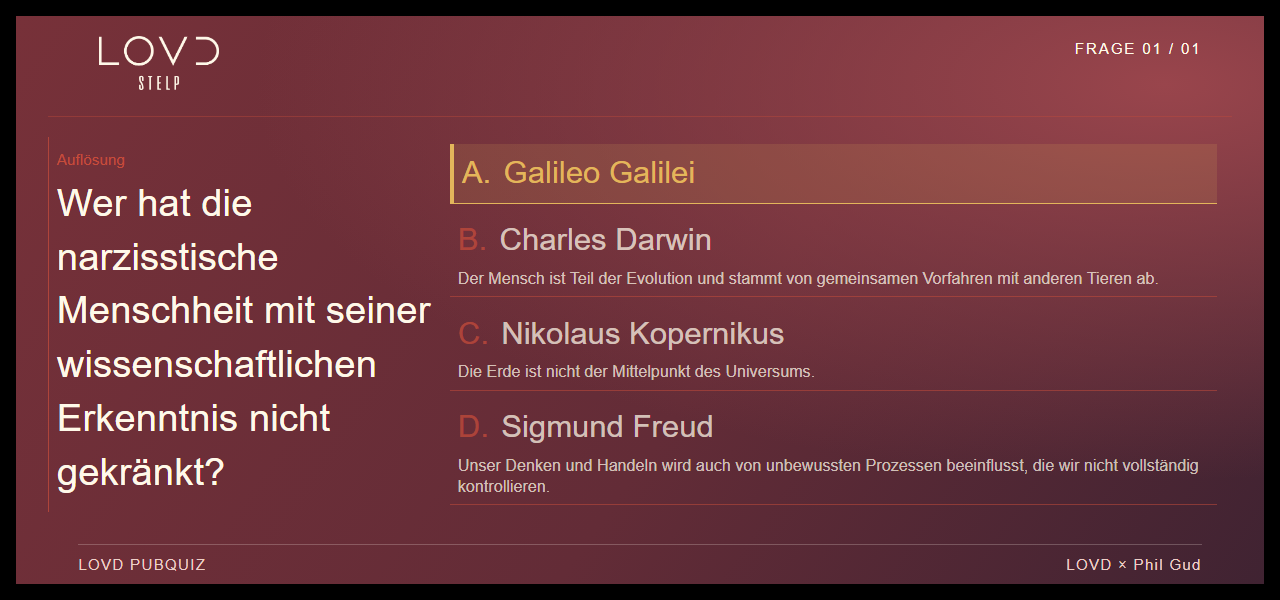
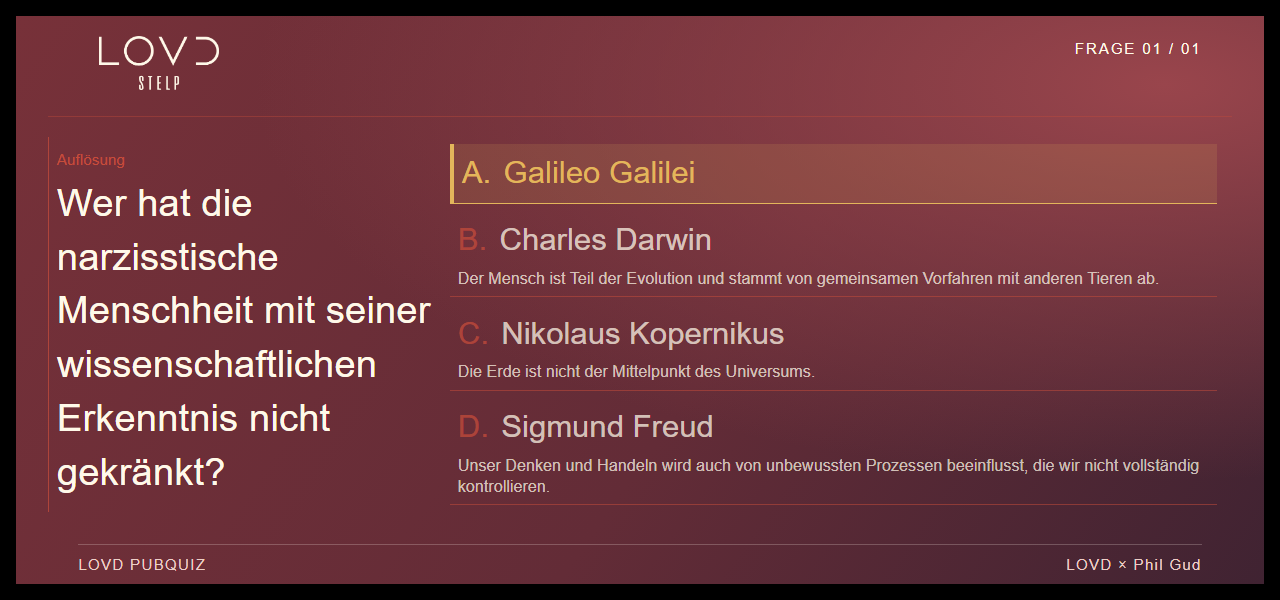
fix: fit existing scaled previews in CSS layout pixels

diff --git a/app/rendering/presentation/choiceLayout.browser.test.ts b/app/rendering/presentation/choiceLayout.browser.test.ts
@@ -20,6 +20,7 @@ test("classical choices: real text geometry, shared type, resizing and long-shor
     import{buildPresentationQualityFixture}from'./app/rendering/presentation/presentationQualityFixtures';
     const root=createRoot(document.getElementById('app'));
     window.show=(scenario,style)=>{const f=buildPresentationQualityFixture(scenario,style);if(scenario.startsWith('image-choice'))f.slide.frage.medien.forEach(m=>m.datei='artwork-layout-test.svg');window.expected=f.slide.frage.antwort_reihenfolge.map((id,i)=>{const a=f.slide.frage.antworten.find(a=>a.antwort_id===id);return String.fromCharCode(65+i)+'.'+a.antwort+(f.slide.typ==='aufloesung'&&a.zusatzinformation?.trim()?a.zusatzinformation:'')});window.expectedQuestion=f.slide.frage.frage;flushSync(()=>root.render(<Renderer {...f}/>));};
+    window.showScaled=scale=>{const f=buildPresentationQualityFixture('choice-short-solution','EDITORIAL');flushSync(()=>root.render(<div key={scale} style={{width:1600,height:900,transform:'scale('+scale+')',transformOrigin:'top left'}}><Renderer {...f}/></div>));};
     window.measure=()=>{
       const box=e=>{const r=e.getBoundingClientRect();return {left:r.left,top:r.top,right:r.right,bottom:r.bottom}};
       const region=document.querySelector('.presentation-content-viewport');
@@ -100,6 +101,12 @@ test("classical choices: real text geometry, shared type, resizing and long-shor
     const extreme=await evaluate('window.measure()');
     if(artifact)writeFileSync(join(artifact,'extreme.json'),JSON.stringify(extreme,null,2));
     assert.equal((extreme as {fit:string}).fit,'unreadable','must not claim unreadable extreme fits');
+    await evaluate('window.showScaled(.4)');await new Promise(r=>setTimeout(r,100));
+    const scaled=await evaluate('window.measure()') as {issues:string[];answerSizes:string[]};
+    assert.deepEqual(scaled.issues,[]);
+    await evaluate('window.showScaled(1)');await new Promise(r=>setTimeout(r,100));
+    const unscaled=await evaluate('window.measure()') as {answerSizes:string[]};
+    assert.deepEqual(scaled.answerSizes,unscaled.answerSizes,'fixed template/moderation canvas must not shrink twice');
     assert.deepEqual(await evaluate('window.errors'),[],'no browser/ResizeObserver errors');
     if(artifact)writeFileSync(join(artifact,'after.json'),JSON.stringify(results,null,2));
     for(const entry of results.filter(r=>r.scenario==='choice-short-solution')){const long=results.find(r=>r.style===entry.style&&r.scenario==='choice-tunnel-solution'&&JSON.stringify(r.viewport)===JSON.stringify(entry.viewport));assert.ok(parseFloat((entry.answerSizes as string[])[0])>parseFloat((long!.answerSizes as string[])[0])*1.2,'short options must grow '+JSON.stringify({style:entry.style,viewport:entry.viewport}));}

diff --git a/app/rendering/presentation/fitChoiceContent.ts b/app/rendering/presentation/fitChoiceContent.ts
@@ -1,6 +1,9 @@
 /** Bounded DOM fit, run only on content/size/assets events. Never changes data or media. */
 export function fitChoiceContent(root: HTMLElement) {
-  const { width, height } = root.getBoundingClientRect();
+  // Existing moderation/template previews scale a fixed CSS canvas. Measure its
+  // layout pixels, not transformed screen pixels, so fitting does not shrink twice.
+  const width = root.clientWidth;
+  const height = root.clientHeight;
   if (width <= 0 || height <= 0) return;
   const hasMedia = root.dataset.choiceMedia === "true";
   const layouts = hasMedia ? ["side-grid", "side-list"] : ["top-grid", "side-list", "side-grid", "top-list"];

diff --git a/docs/qa/choice-layout-20261027.md b/docs/qa/choice-layout-20261027.md
@@ -21,7 +21,7 @@ Messungen erfolgen beim Inhaltswechsel, ResizeObserver auf der extern bemessenen
 - Viewports: **1280×600, 1280×720, 1366×768, 1920×1080, 2560×1440**. Gemessen über `innerWidth/innerHeight`, nicht Bildschirmauflösung.
 - Fälle: beide gemeldeten vollständigen Auflösungen, vier kurze Antworten, vier mehrzeilige Antworten als Frage und Auflösung, gemischte Längen, lange Frage mit kurzen Antworten sowie Bildfrage und Bildauflösung. Das Bild im automatischen Test ist ein vorhandenes lokales SVG, um externe Netzabhängigkeit zu vermeiden.
 - Verglichen werden vollständige Frage/Antwort/Erläuterung mit Fixture-Daten, Buchstaben/Reihenfolge, einheitliche Schriftgrößen, Textzeilen über DOM-Ranges, Überschneidungen zwischen Optionen, Sichtbarkeit in Karte/Stage, Scrollmaße und tatsächliche Bildladung.
-- Zusätzlich: Größenwechsel derselben gemounteten Folie, lange → kurze → lange Folie ohne Remount, Rückkehr zur vorherigen Größe und stabile Größen nach weiterem Warten; keine Browser-/ResizeObserver-Fehler. Kurze Antworten sind in jeder Vorlage/Größe mindestens 20 % größer als der Schwabtunnel-Fall.
+- Zusätzlich: Größenwechsel derselben gemounteten Folie, lange → kurze → lange Folie ohne Remount, vorhandene skalierte Moderations-/Templatevorschau (0,4× gegenüber 1× mit identischer CSS-Schriftgröße), Rückkehr zur vorherigen Größe und stabile Größen nach weiterem Warten; keine Browser-/ResizeObserver-Fehler. Kurze Antworten sind in jeder Vorlage/Größe mindestens 20 % größer als der Schwabtunnel-Fall.
 - Bestehender statischer Resize-/Bildharness führt nun dieselbe Client-Einpassung aus; sämtliche bisherigen Größen-/Bildassertionen bleiben erhalten. Beide Kontrast-/Resize-Browsertests erfolgreich. Der isolierte Compilerharness verwendet verfügbare Basis-/Fallbackschriften; die gehostete Abnahme prüft zusätzlich die tatsächlich geladenen App-Schriften.
 - Vollständige CI und gehostete Preview: maßgebliche aktuelle Runs und Deploymentnachweis im PR. Keine physische Beamerabnahme behauptet.
 
